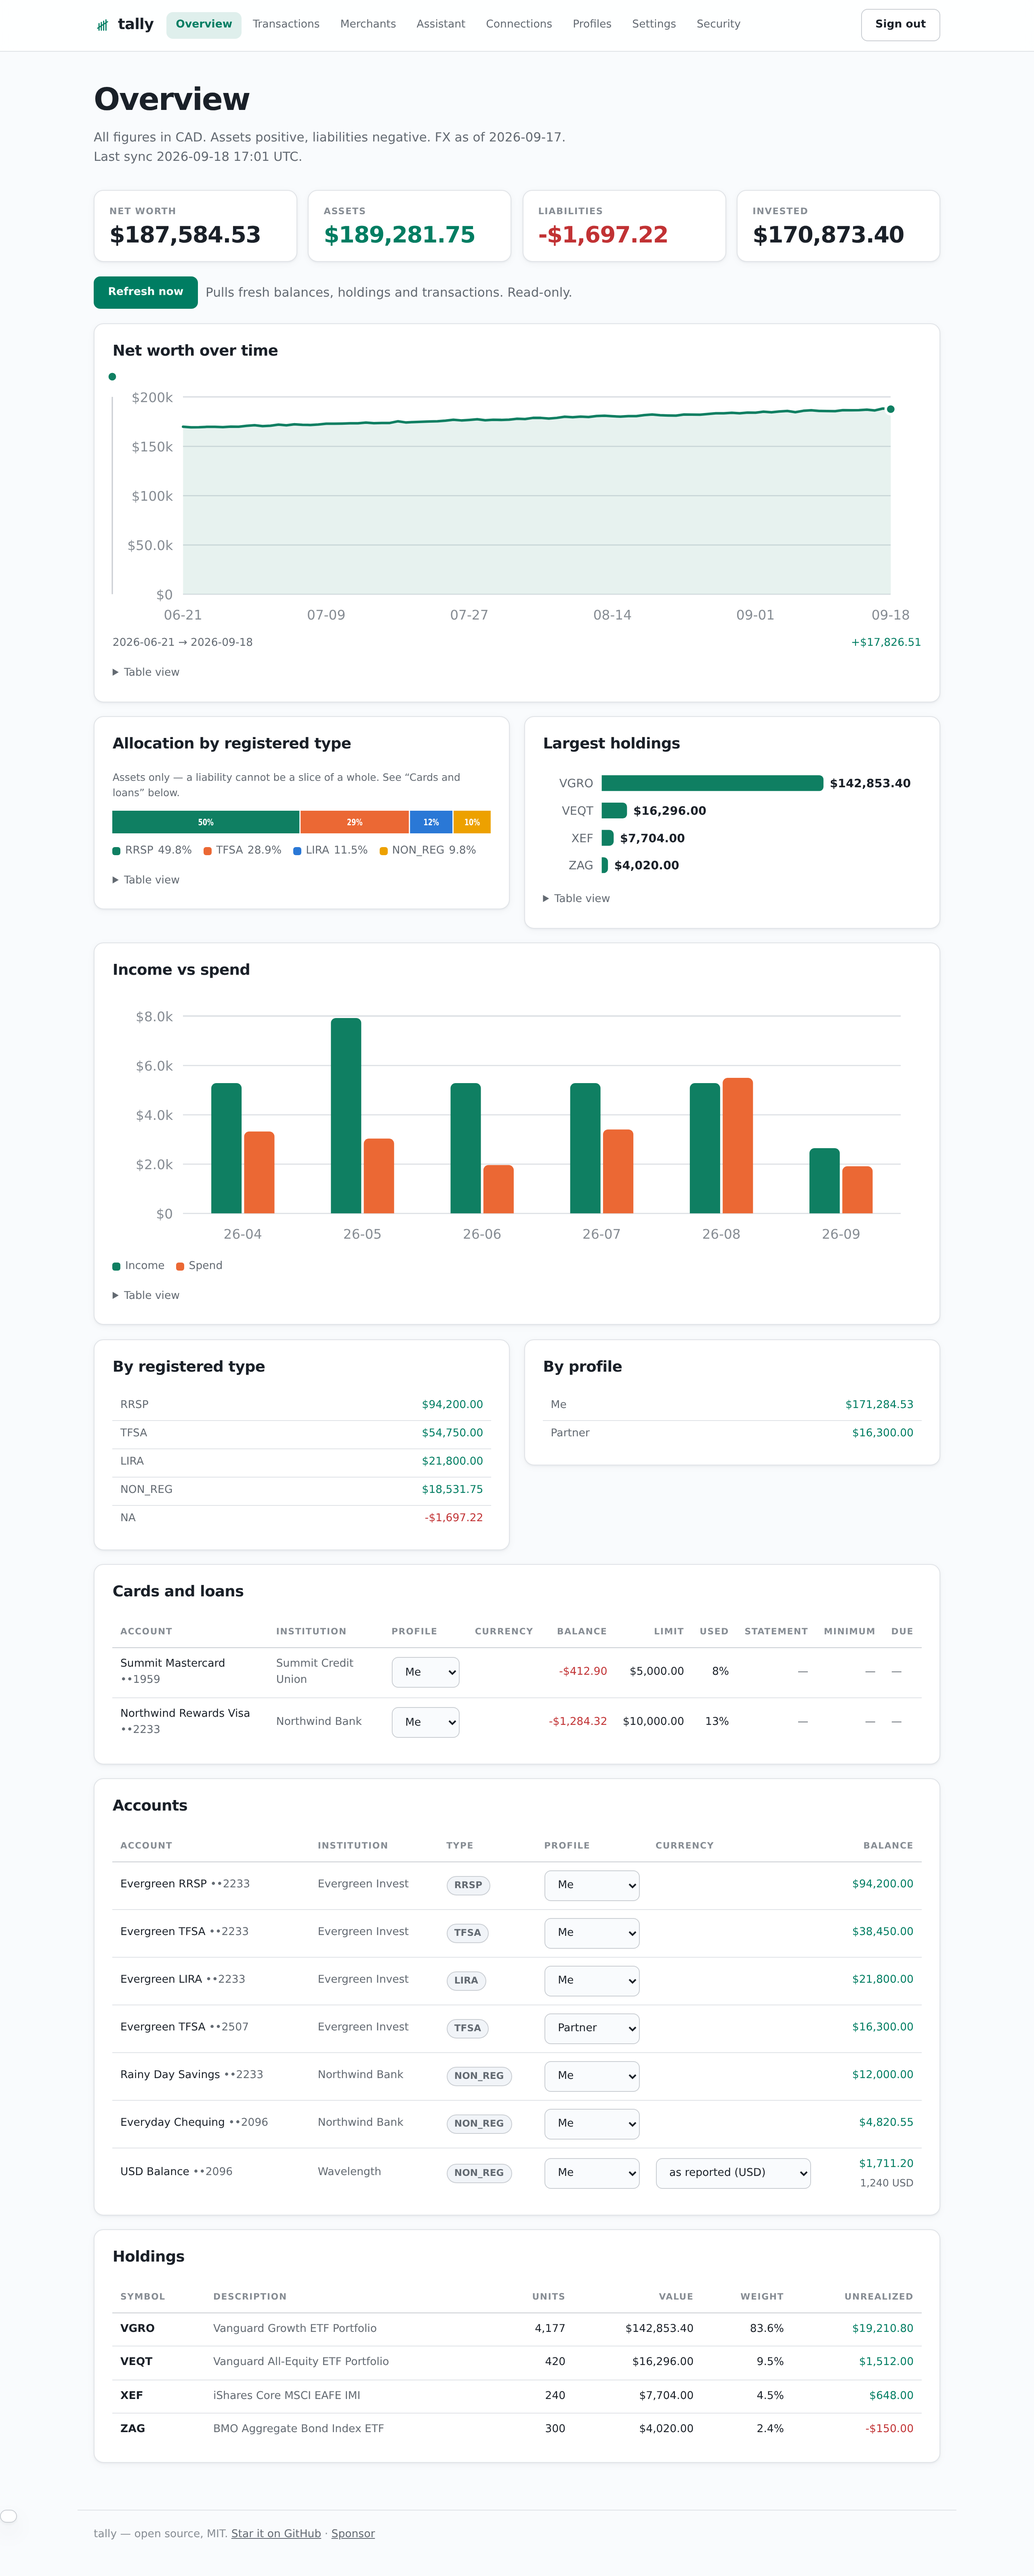
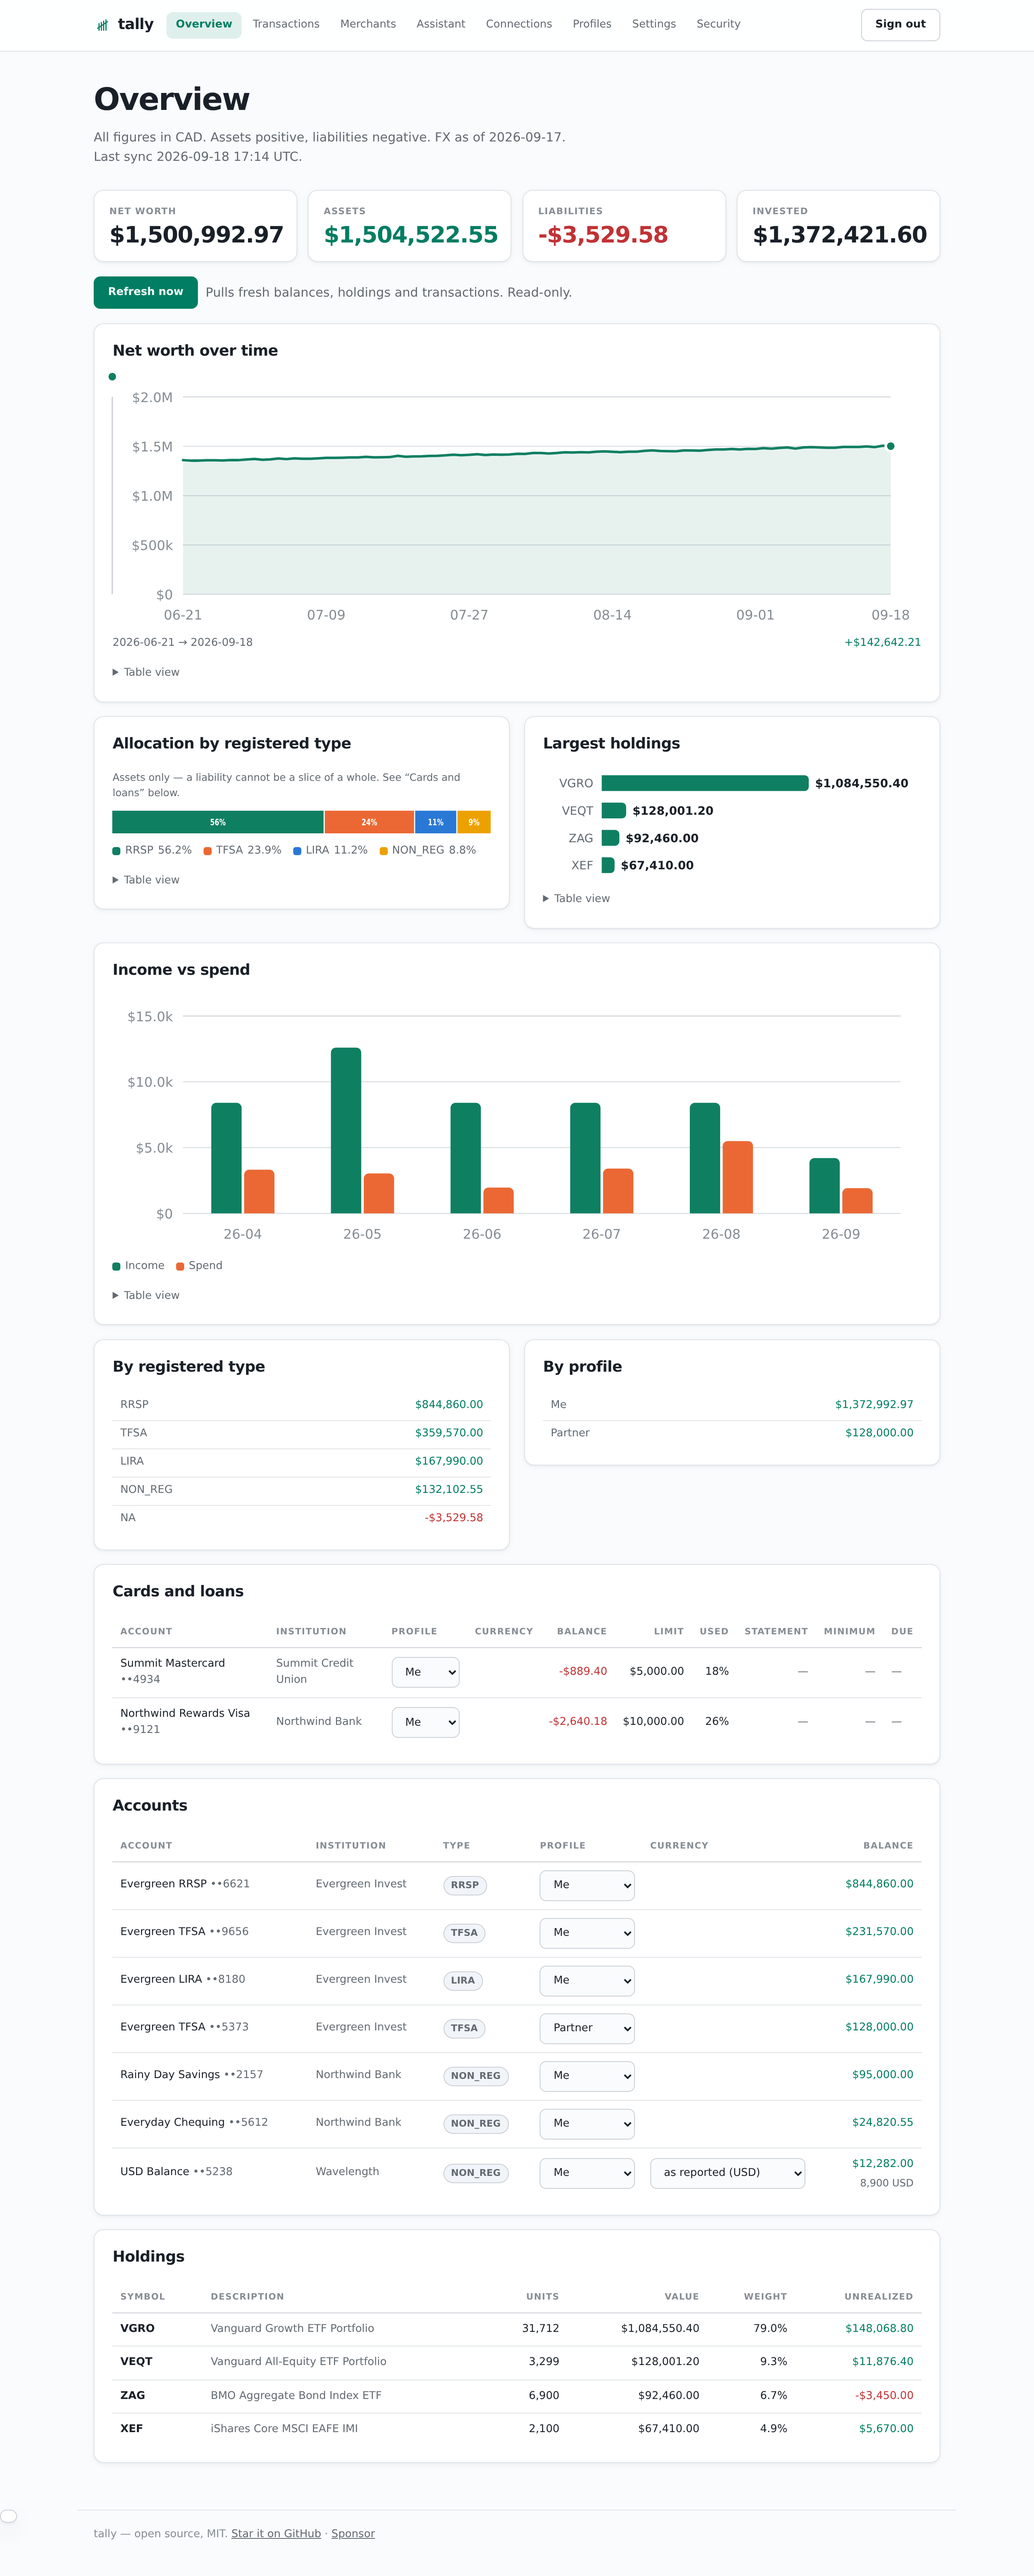
docs: demo figures at household scale, and ask for forks and PRs
The screenshots were shot from a demo household worth $187k with $1.7k of
card debt, which reads as a toy. Scale the seed to ~$1.5M in assets and
~$3.5k owing so the charts, the allocation ring and the M/k axis labels
show what they do against a real balance sheet, and give each demo account
its own four-digit mask — keying it off the id's length gave five accounts
the same digits, which reads as a bug in a screenshot.

Contributing now states the one route in: fork, branch, `npm run check`,
pull request against main, with the commands spelled out.

Claude-Session: https://claude.ai/code/session_01KgsJZJUWodiqW3Eh8PNhPu

diff --git a/scripts/demo.ts b/scripts/demo.ts
@@ -102,8 +102,9 @@ function main(): void {
       institution,
       name,
       // Four digits, like a real account mask — id.slice(-4) produced "rrsp"
-      // and "o:mc", which reads as a bug in the screenshot.
-      mask: String(1000 + (id.length * 137) % 9000),
+      // and "o:mc", which reads as a bug in the screenshot, and keying off the
+      // id's length gave half the accounts the same four digits.
+      mask: String(1000 + [...id].reduce((h, c) => (h * 31 + c.charCodeAt(0)) % 9000, 7)),
       account_category: 'INVESTMENT',
       account_subtype: null,
       registered_type: registered,
@@ -119,38 +120,38 @@ function main(): void {
   };
 
   // Brokerage — one person's registered accounts, one partner's.
-  account('demo:rrsp', 'Evergreen RRSP', 'Evergreen Invest', 'RRSP' as RegisteredType, 94_200);
-  account('demo:tfsa', 'Evergreen TFSA', 'Evergreen Invest', 'TFSA' as RegisteredType, 38_450);
-  account('demo:lira', 'Evergreen LIRA', 'Evergreen Invest', 'LIRA' as RegisteredType, 21_800);
-  account('demo:p-tfsa', 'Evergreen TFSA', 'Evergreen Invest', 'TFSA' as RegisteredType, 16_300);
+  account('demo:rrsp', 'Evergreen RRSP', 'Evergreen Invest', 'RRSP' as RegisteredType, 844_860);
+  account('demo:tfsa', 'Evergreen TFSA', 'Evergreen Invest', 'TFSA' as RegisteredType, 231_570);
+  account('demo:lira', 'Evergreen LIRA', 'Evergreen Invest', 'LIRA' as RegisteredType, 167_990);
+  account('demo:p-tfsa', 'Evergreen TFSA', 'Evergreen Invest', 'TFSA' as RegisteredType, 128_000);
 
   // Banking and cards.
-  account('demo:chq', 'Everyday Chequing', 'Northwind Bank', 'NON_REG' as RegisteredType, 4_820.55, {
+  account('demo:chq', 'Everyday Chequing', 'Northwind Bank', 'NON_REG' as RegisteredType, 24_820.55, {
     account_category: 'DEPOSITORY',
     account_subtype: 'checking',
-    available: 4_820.55,
+    available: 24_820.55,
   });
-  account('demo:save', 'Rainy Day Savings', 'Northwind Bank', 'NON_REG' as RegisteredType, 12_000, {
+  account('demo:save', 'Rainy Day Savings', 'Northwind Bank', 'NON_REG' as RegisteredType, 95_000, {
     account_category: 'DEPOSITORY',
     account_subtype: 'savings',
   });
-  account('demo:visa', 'Northwind Rewards Visa', 'Northwind Bank', 'NA' as RegisteredType, -1_284.32, {
+  account('demo:visa', 'Northwind Rewards Visa', 'Northwind Bank', 'NA' as RegisteredType, -2_640.18, {
     account_category: 'LOC',
     account_subtype: 'credit card',
-    available: 8_715.68,
+    available: 7_359.82,
     credit_limit: 10_000,
   });
-  account('demo:mc', 'Summit Mastercard', 'Summit Credit Union', 'NA' as RegisteredType, -412.9, {
+  account('demo:mc', 'Summit Mastercard', 'Summit Credit Union', 'NA' as RegisteredType, -889.4, {
     account_category: 'LOC',
     account_subtype: 'credit card',
-    available: 4_587.1,
+    available: 4_110.6,
     credit_limit: 5_000,
   });
   account('demo:usd', 'USD Balance', 'Wavelength', 'NON_REG' as RegisteredType, 0, {
     account_category: 'DEPOSITORY',
     currency: 'USD',
-    balance: 1_240,
-    balance_cad: 1_711.2,
+    balance: 8_900,
+    balance_cad: 12_282,
   });
 
   setAccountProfile(db, 'demo:p-tfsa', 'partner');
@@ -158,18 +159,18 @@ function main(): void {
   // Holdings: one broad-market ETF dominating, which is what makes the
   // concentration number on the Overview say something.
   replaceHoldings(db, 'demo:rrsp', [
-    holding('demo:rrsp', 'VGRO', 'Vanguard Growth ETF Portfolio', 2_640, 34.2, 28.9),
-    holding('demo:rrsp', 'ZAG', 'BMO Aggregate Bond Index ETF', 300, 13.4, 13.9),
+    holding('demo:rrsp', 'VGRO', 'Vanguard Growth ETF Portfolio', 22_000, 34.2, 28.9),
+    holding('demo:rrsp', 'ZAG', 'BMO Aggregate Bond Index ETF', 6_900, 13.4, 13.9),
   ]);
   replaceHoldings(db, 'demo:tfsa', [
-    holding('demo:tfsa', 'VGRO', 'Vanguard Growth ETF Portfolio', 900, 34.2, 30.1),
-    holding('demo:tfsa', 'XEF', 'iShares Core MSCI EAFE IMI', 240, 32.1, 29.4),
+    holding('demo:tfsa', 'VGRO', 'Vanguard Growth ETF Portfolio', 4_800, 34.2, 30.1),
+    holding('demo:tfsa', 'XEF', 'iShares Core MSCI EAFE IMI', 2_100, 32.1, 29.4),
   ]);
   replaceHoldings(db, 'demo:lira', [
-    holding('demo:lira', 'VGRO', 'Vanguard Growth ETF Portfolio', 637, 34.2, 31.8),
+    holding('demo:lira', 'VGRO', 'Vanguard Growth ETF Portfolio', 4_912, 34.2, 31.8),
   ]);
   replaceHoldings(db, 'demo:p-tfsa', [
-    holding('demo:p-tfsa', 'VEQT', 'Vanguard All-Equity ETF Portfolio', 420, 38.8, 35.2),
+    holding('demo:p-tfsa', 'VEQT', 'Vanguard All-Equity ETF Portfolio', 3_299, 38.8, 35.2),
   ]);
 
   // Brokerage activity, so get_activities and contribution room have something.
@@ -182,9 +183,9 @@ function main(): void {
       type: 'DIVIDEND',
       description: 'VGRO distribution',
       symbol: 'VGRO',
-      amount: 212.4 * wobble(m + 1, 0.2),
+      amount: 1_840 * wobble(m + 1, 0.2),
       currency: 'CAD',
-      amount_cad: 212.4 * wobble(m + 1, 0.2),
+      amount_cad: 1_840 * wobble(m + 1, 0.2),
     });
     activities.push({
       id: `demo:act:con:${String(m)}`,
@@ -234,9 +235,9 @@ function main(): void {
         date: dayISO(day),
         name: 'ACME LOGISTICS PAYROLL',
         merchant: 'Acme Logistics',
-        amount: -2_640,
+        amount: -4_200,
         currency: 'CAD',
-        amount_cad: -2_640,
+        amount_cad: -4_200,
         category: 'INCOME',
         category_detailed: 'INCOME_WAGES',
         pending: false,
@@ -266,7 +267,7 @@ function main(): void {
       `INSERT INTO snapshots (ts, total_assets_cad, total_liabilities_cad, net_worth_cad, by_owner, by_registered_type, origin)
        VALUES (?, ?, ?, ?, '{}', '{}', 'demo')
        ON CONFLICT(substr(ts,1,10), origin) DO NOTHING`,
-    ).run(`${dayISO(day)}T12:00:00.000Z`, value + 1_700, -1_700, value);
+    ).run(`${dayISO(day)}T12:00:00.000Z`, value + 3_530, -3_530, value);
   }
 
   db.prepare(

diff --git a/README.md b/README.md
@@ -426,11 +426,14 @@ end to end (auth, 405 on GET, rate limiting, `tools/list`, a tool call).
 
 ## Contributing
 
-Issues and pull requests are welcome — read [CONTRIBUTING.md](CONTRIBUTING.md)
-first, because a few rules here are non-negotiable (read-only forever, statement
-PDFs never persisted, docs ship in the same commit as the change). Source
-adapters for other institutions and other countries' registered-account types are
-the most useful thing anyone could add.
+Issues and pull requests are welcome. **Fork the repository, branch, and open a
+pull request** against `main` — there is no other way in, and it is the way this
+project expects changes to arrive. [CONTRIBUTING.md](CONTRIBUTING.md) has the
+exact commands and the rules that are non-negotiable (read-only forever,
+statement PDFs never persisted, docs ship in the same commit as the change).
+Run `npm run check` before you open it. Source adapters for other institutions
+and other countries' registered-account types are the most useful thing anyone
+could add.
 
 Please report vulnerabilities privately — see [SECURITY.md](SECURITY.md).
 
@@ -456,6 +459,8 @@ exist because breaking one caused a real outage.
 This is maintained by one person, in evenings, for free.
 
 - **⭐ Star the repo.** Free, and it is how anyone else finds this.
+- **Fork it and send a pull request.** A fix you carry in your own fork helps
+  one person; the same fix as a PR helps everyone who connects that bank.
 - **Report what breaks.** A good bug report against a real institution is worth
   more than a donation — nobody can test every bank.
 - **[Sponsor](https://github.com/sponsors/yrameshk26)** if it saved you the

diff --git a/CONTRIBUTING.md b/CONTRIBUTING.md
@@ -19,11 +19,37 @@ pull request doesn't hit a rule it couldn't have known about.
    silently passed off as CAD.
 5. **Never scrape.** Official APIs only.
 
-## Before you open a PR
+## How to send a change
+
+There is no write access to this repository for anyone else, and that is fine —
+**fork it and open a pull request.** The whole loop:
 
 ```bash
+# 1. Fork on GitHub (the Fork button, top right), then clone your fork
+git clone https://github.com/<your-username>/Tally.git
+cd Tally
+git remote add upstream https://github.com/yrameshk26/Tally.git
+
+# 2. Branch. Never work on main — it makes the next sync painful for you.
+git checkout -b fix/wise-rate-rounding
+
+# 3. Make the change, then prove it
 npm run check      # typecheck + the full test suite; both must be clean
+
+# 4. Push to your fork and open the PR against yrameshk26/Tally:main
+git push -u origin fix/wise-rate-rounding
 ```
+
+GitHub then offers a "Compare & pull request" button on your fork. In the
+description, say what broke, what you changed, and how you tested it — against
+`npm run demo` data is fine, and is the only way to show a bug publicly without
+posting your own balances.
+
+Small PRs get read and merged; a large one that rewrites a subsystem will sit,
+so open an issue first for anything big and we'll agree the shape before you
+spend an evening on it. Draft PRs are welcome if you want early feedback.
+
+## Before you open a PR
 
 Then, per `CLAUDE.md` rule 10, update `README.md` and `CLAUDE.md` in the *same*
 commit: a new tool goes in the tool table, a new page in the Web UI section, a
